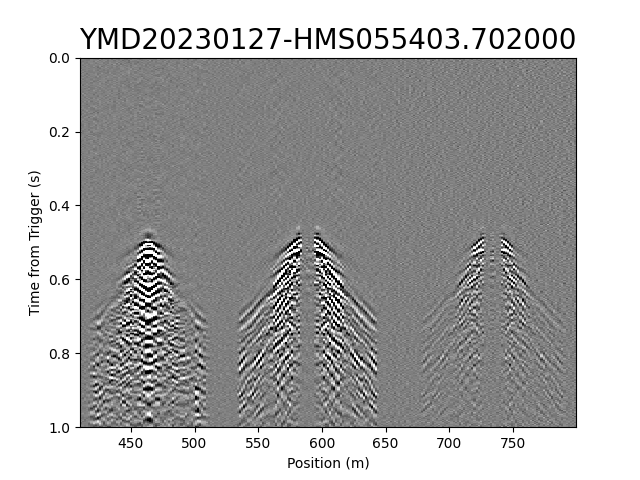
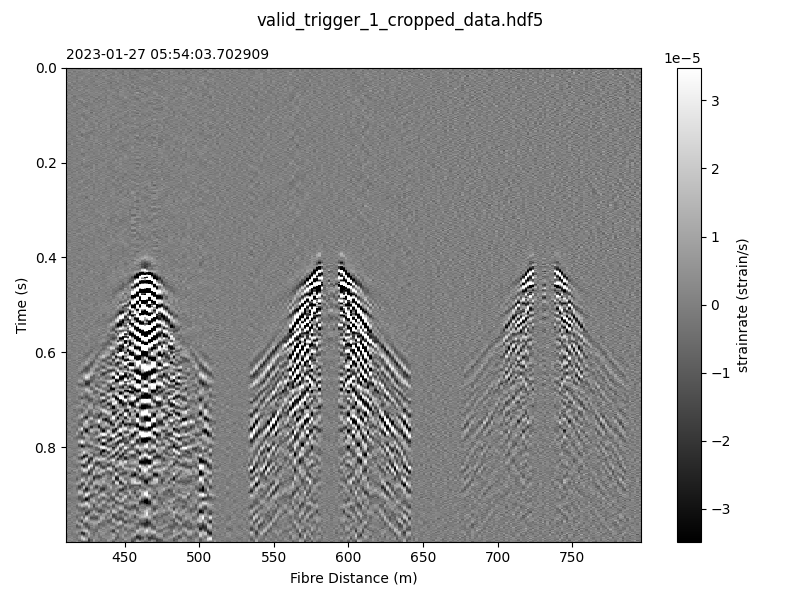
- Add API download links to README.md - Fix timing inconsistencies in split_dataset.py example.

diff --git a/HDF5_samples/split_dataset.py b/HDF5_samples/split_dataset.py
@@ -49,16 +49,28 @@ def convert_velocity_to_strainrate(data, gauge_length_m, dx):
     return (data[:, gauge_samples:] - data[:, :-gauge_samples]) / (gauge_samples * dx)
 
 
-def load_strainrate_data(hdf_path, duration_seconds):
+def correct_gauge_length_offset(x_vector, gauge_length):
+    """Compensate for distance shift of data caused by gauge_length calculation."""
+    # crops end of x_vector by gauge length
+    dx = x_vector[1] - x_vector[0]
+    gauge_samples = int(round(gauge_length / dx))
+    gauge_length = gauge_samples * dx
+    x_correct = x_vector[:-gauge_samples]
+
+    # compensates for GL/2 signal offset
+    x_correct = x_correct + gauge_length / 2
+    return x_correct
+
+
+def simple_load_data(hdf_path, duration_seconds):
     with h5py.File(hdf_path, "r") as f:
         metadata = dict(f.attrs)
         t2 = int(duration_seconds // metadata["dt_computer"]) + 1
-        cropped_data = f["data_product"]["data"][:t2]
+        cropped_data = f["data_product/data"][:t2]
+        t = f["data_product/gps_time"][:t2]
+        x = metadata['sensing_range_start'] + np.arange(0, metadata['nx']) * metadata["dx"]
 
-        if metadata["data_product"] == "velocity":
-            cropped_data = convert_velocity_to_strainrate(cropped_data, metadata["pulse_length"], metadata['dx'])
-
-        return cropped_data, metadata
+        return cropped_data, metadata, t, x
 
 
 def isoformat_timestamp(timestamp: float) -> str:
@@ -71,7 +83,7 @@ def resave_triggered_data(src_hdf, dest_hdf, duration_seconds, trigger_timestamp
         src_attrs = dict(src_file.attrs)
 
         if trigger_timestamp:
-            t1 = int((trigger_timestamp - src_attrs['saving_start_computer_time']) // src_attrs["dt_computer"])
+            t1 = np.where(src_file["data_product/gps_time"][:] > trigger_timestamp)[0][0]
         elif "trigger_start_line" in list(src_file.attrs.keys()):
             t1 = src_attrs['trigger_start_line']
             # if t1 == -1: t1=0
@@ -125,65 +137,75 @@ def resave_triggered_data(src_hdf, dest_hdf, duration_seconds, trigger_timestamp
             dest_file.attrs.update(src_updated)
 
 
-def plot_data(
-        data,
-        metadata,
-        title,
-        image_path: str
-):
-    plt.figure()
-    pos_end = metadata["sensing_range_end"]
-    pos_start = metadata["sensing_range_start"]
-    sample_rate = 1/metadata['dt_computer']
+def plot_data(data, t, x, title=None, units=None, axis=None, cmap="gray"):
+    t_start = datetime.utcfromtimestamp(t[0])
+    t_rel = t - t[0]
 
-    plt.title(title, fontsize=20)
+    if axis is not None:
+        plt.sca(axis)
+    else:
+        plt.figure(figsize=(8, 6))
+
+    if title is not None:
+        plt.suptitle(title, fontsize=12)
+
+    plt.title(t_start, loc="left", fontsize=10)
+
     plt.imshow(
         data,
         aspect="auto",
-        cmap="gray",
-        extent=(pos_start, pos_end, 1 / sample_rate * data.shape[0], 0),
+        cmap=cmap,
+        extent=(x[0], x[-1], t_rel[-1], t_rel[0]),
         vmin=-3 * np.std(data),
         vmax=3 * np.std(data),
-        interpolation="none",
+        interpolation="none"
     )
-    plt.xlabel("Position (m)")
-    plt.ylabel("Time from Trigger (s)")
-    plt.savefig(image_path)
-    plt.close()
+
+    cbar = plt.colorbar()
+    if units is not None:
+        cbar.set_label(units)
+
+    plt.xlabel("Fibre Distance (m)")
+    plt.ylabel("Time (s)")
+    plt.tight_layout()
 
 
 # Get file time boundaries
 with h5py.File(hdf5_data_file, "r") as f:
-    t_min = f["data_product"]["posix_time"][0]
-    t_max = f["data_product"]["posix_time"][-1]
+    t_min = f["data_product"]["gps_time"][0]
+    t_max = f["data_product"]["gps_time"][-1]
 
 print(f"Data Start Time (UTC): {datetime.utcfromtimestamp(t_min).strftime(input_time_string_format)}\n"
       f"Data Stop Time  (UTC): {datetime.utcfromtimestamp(t_max).strftime(input_time_string_format)}")
 
 # get trigger timestamps
 trigger_data = pd.read_csv(trigger_reference_file)
-trigger_times = list(trigger_data["Time"])
-trigger_datetimes = [datetime.strptime(t, input_time_string_format) for t in trigger_times]
-trigger_datetimes = [t.replace(tzinfo=pytz.utc) for t in trigger_datetimes]
 
 # crop and resave data from each trigger timestamp
-for t in trigger_datetimes:
-    timestring = t.strftime("YMD%Y%m%d-HMS%H%M%S.%f")
+for i, row in trigger_data.iterrows():
+    trig_name = row["Name"]
+    trig = datetime.strptime(row["Time"], input_time_string_format)
+    trig = trig.replace(tzinfo=pytz.utc)
 
-    if t_min < t.timestamp() < t_max:
+    if t_min < trig.timestamp() < t_max:
         try:
-            print(f"Processing trigger : {t.strftime(input_time_string_format)}")
-            output_filename = timestring + "_cropped_data.hdf5"
+            print(f"Processing trigger : {trig.strftime(input_time_string_format)}")
+            output_filename = trig_name + "_cropped_data.hdf5"
 
-            resave_triggered_data(hdf5_data_file, output_filename, CROP_DURATION, trigger_timestamp=t.timestamp())
+            resave_triggered_data(hdf5_data_file, output_filename, CROP_DURATION, trigger_timestamp=trig.timestamp())
 
             # Checks data validity by re-loading and plotting.
-            data, md = load_strainrate_data(output_filename, CROP_DURATION)
-            plot_data(data, md, title=timestring, image_path=timestring + "_cropped_data.png")
+            data, md, t, x = simple_load_data(output_filename, CROP_DURATION)
+            data = convert_velocity_to_strainrate(data, md['pulse_length'], md['dx'])
+            x = correct_gauge_length_offset(x, md["pulse_length"])
+
+            plot_data(data, t, x, title=output_filename, units="strainrate (strain/s)")
+            plt.savefig(trig_name + "_cropped_data.png")
+
         except Exception as e:
-            print(f"Could not process data for trigger: {t.strftime(input_time_string_format)}")
+            print(f"Could not process data for trigger: {trig.strftime(input_time_string_format)}")
             print(e)
 
 
     else:
-        print(f"Trigger time {t.strftime(input_time_string_format)} is outside time limits of file.")
+        print(f"Trigger time {trig.strftime(input_time_string_format)} is outside time limits of file.")

diff --git a/README.md b/README.md
@@ -5,7 +5,6 @@ TrebleSDK Provides a library of examples of how to interact with the Terra15 Tre
 
 Sample code shows how to process data from both .hdf5 data files and realtime from a Treble server.
 
-## Get Started
 ### Running Python scripts
 1. If Miniconda is not already installed, it can be downloaded and installed as per instructions below:
    - Linux: https://conda.io/projects/conda/en/stable/user-guide/install/linux.html
@@ -20,10 +19,12 @@ Sample code shows how to process data from both .hdf5 data files and realtime fr
    conda install pyqt pyqtgraph
    sudo apt install x11-apps libgl1 libxcb-icccm4 libxcb-image0 libxcb-keysyms1 libxcb-render-util0 libsm6
    ```
-   
-   
 
-3. Download and Install the current Treble Client API. A download link can be provided by Terra15 upon request.
+3.  Download and Install the current Treble Client API. API links for different platforms are below:
+   - Linux: https://terra15.com.au/download/latestlinuxapi_cp39_v6.whl
+   - Windows: https://terra15.com.au/download/latestwindowsapi_cp39_v6.whl
+   - MacOS: https://terra15.com.au/download/latestmacosapi_cp39_v6.whl
+
 
 4. The SDK provides examples to stream and plot data from a running Treble server. 
    - First edit the script to point to a Treble IP address, eg. `10.0.0.70`.
